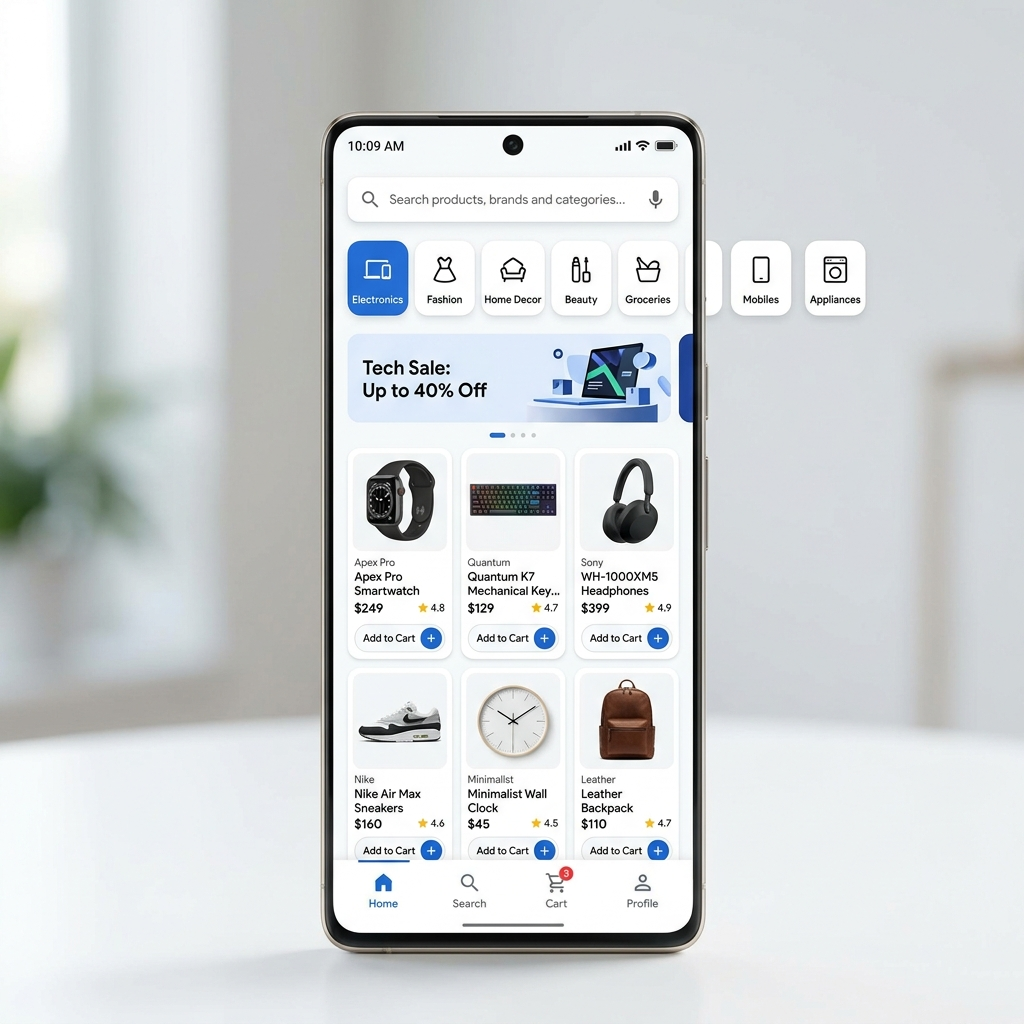
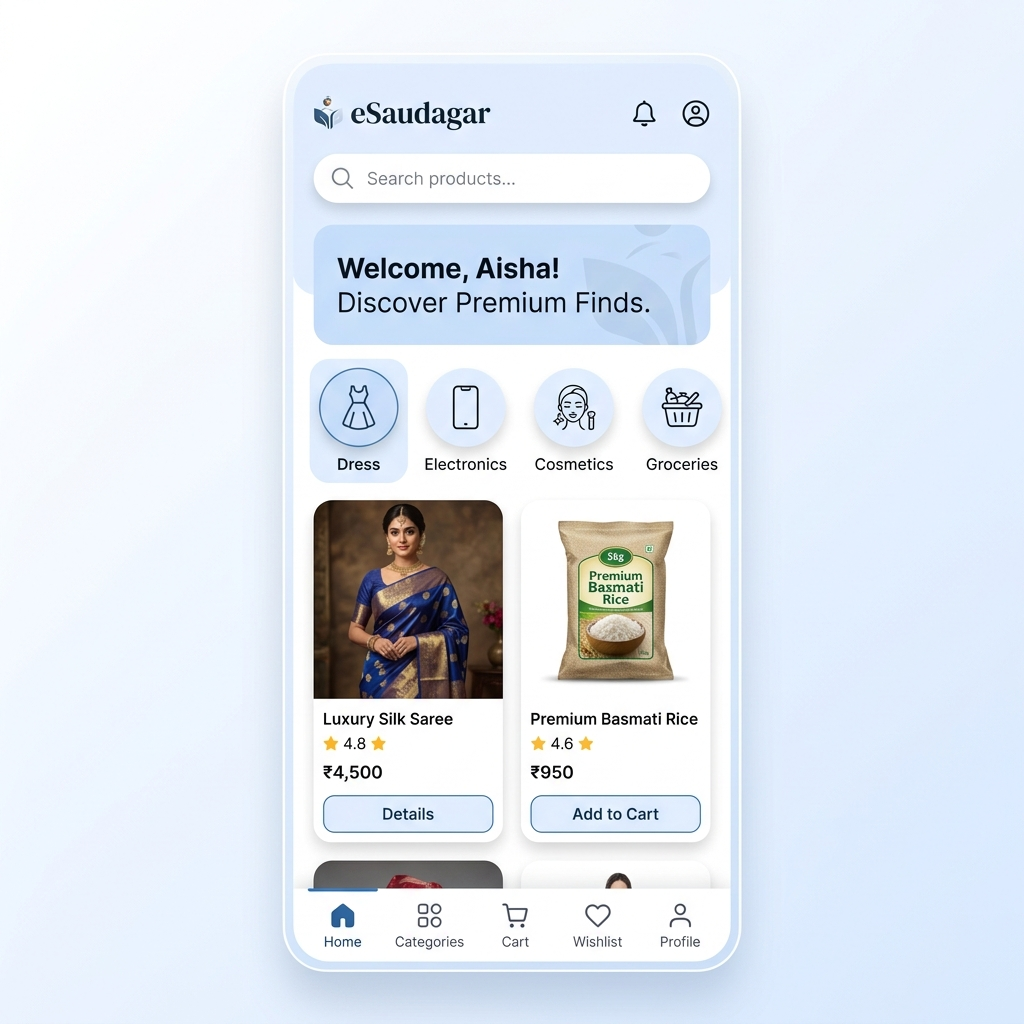
docs: update app screenshots in README

diff --git a/README.md b/README.md
@@ -64,7 +64,9 @@
 
 | Home & Categories | Product Details | Cart & Checkout |
 |:---:|:---:|:---:|
+| ![Home](screenshots/preview.png) | ![Details](screenshots/details.png) | ![Checkout](screenshots/checkout.png) |
 | Modern Grid View | Pinch-to-Zoom Images | Smooth Checkout Flow |
+
 
 ## 🤝 Contributing
 
